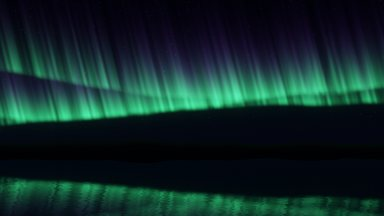
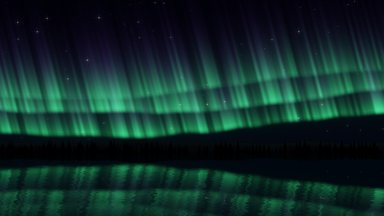
Aurora: fir trees along the shore before the mountains, in clusters with clearings, each its own height, in tiers narrowing to the tip, nearly black and mirrored in the lake, broken by its waves; the far mountains a little hazier so the near trees stand out from them. The brightest stars' glare flas

diff --git a/apps/desktop/renderer/app/viz/aurora.js b/apps/desktop/renderer/app/viz/aurora.js
@@ -8,11 +8,12 @@
 // curtain glows brighter, and where it is louder than it just was its lower
 // edge lifts a little (quieter: dips), easing back as it settles. The
 // music's intensity sets how restless they are, and the kicks make them
-// flare. The lake mirrors it all, broken by small waves.
+// flare. Fir trees stand along the shore before the mountains, and the lake
+// mirrors it all, broken by small waves.
 //
 // Its cogwheel: the colours (green, the rarer red and violet, rainbow), how
 // restless, the lake, the stars (faint and bright ones, each twinkling in its
-// own time, the brightest with a glare).
+// own time, the brightest with a glare flashing a little with the bass).
 //
 // WebGL (viz/gl.js): one pass over the screen; below the horizon each pixel
 // works out the sky again where it would be mirrored.
@@ -38,7 +39,7 @@
     in vec2 uv;
     uniform sampler2D bands;
     uniform vec2 res;
-    uniform float time, drift, flare, lake, stars, rainbow, lift;
+    uniform float time, drift, flare, lake, stars, rainbow, lift, boom;
     uniform vec3 low, high;
     out vec4 o;
 
@@ -88,8 +89,9 @@
           float glow = exp(-dot(d, d) / (r * r));
           glow += 0.1 * m * exp(-length(d) / (2.0 + 4.0 * m));
           if (m > 0.5) {
-            float reach = 3.0 + 8.0 * m;
-            glow += 0.25 * m * (exp(-abs(d.y) / 0.45 - abs(d.x) / reach) + exp(-abs(d.x) / 0.45 - abs(d.y) / reach));
+            // Flashing a little with the bass.
+            float reach = (3.0 + 8.0 * m) * (1.0 + 0.3 * boom);
+            glow += 0.25 * m * (1.0 + 0.8 * boom) * (exp(-abs(d.y) / 0.45 - abs(d.x) / reach) + exp(-abs(d.x) / 0.45 - abs(d.y) / reach));
           }
           vec3 tint = mix(vec3(0.75, 0.85, 1.0), vec3(1.0, 0.88, 0.72), hash12(g + 6.6));
           sum += tint * (0.3 + 1.0 * m) * twinkle(g, 0.45) * glow;
@@ -133,29 +135,61 @@
       return col;
     }
 
+    // The fir trees along the shore, x across (screen heights) and y above
+    // the shore: how much of this point they cover. In clusters with
+    // clearings between, each its own height, in tiers narrowing to the tip.
+    float trees(float x, float y) {
+      if (y < 0.0 || y > 0.07) return 0.0;
+      const float W = 0.011;
+      float cell = floor(x / W);
+      float edge = 1.2 / res.y;
+      float cover = 0.0;
+      for (int k = -2; k <= 2; k++) {
+        float c = cell + float(k);
+        float forest = smoothstep(0.35, 0.6, vnoise(vec2(c * 0.07, 7.0)));
+        if (hash12(vec2(c, 3.3)) > forest * 0.95) continue;
+        float h = (0.016 + 0.034 * hash12(vec2(c, 5.1))) * (0.65 + 0.45 * forest);
+        float t = y / h;
+        if (t > 1.0) continue;
+        float cx = (c + 0.5 + 0.7 * (hash12(vec2(c, 8.2)) - 0.5)) * W;
+        float tiers = 4.0 + floor(3.0 * hash12(vec2(c, 9.9)));
+        float wide = h * 0.26 * (1.0 - t) * (0.62 + 0.38 * fract((1.0 - t) * tiers));
+        if (t < 0.1) wide = max(wide, h * 0.025);   // the trunk
+        cover = max(cover, smoothstep(-edge, edge, wide - abs(x - cx)) * smoothstep(-edge, edge, h - y));
+      }
+      return cover;
+    }
+
     void main() {
       float aspect = res.x / res.y;
       vec2 p = uv;
       vec3 col;
+      float wave = 0.0;
       if (p.y >= HORIZON || lake < 0.5) {
         col = sky(p, aspect);
       } else {
         // The lake: the sky mirrored, broken by small waves, darker.
         float depth = (HORIZON - p.y) / HORIZON;
-        float wave = (vnoise(vec2(p.x * aspect * 40.0, p.y * 260.0 - time * 0.8)) - 0.5) * 0.012 * (0.3 + depth);
+        wave = (vnoise(vec2(p.x * aspect * 40.0, p.y * 260.0 - time * 0.8)) - 0.5) * 0.012 * (0.3 + depth);
         vec2 m = vec2(p.x + wave, 2.0 * HORIZON - p.y + wave * 0.5);
         col = sky(m, aspect) * (0.55 - 0.25 * depth);
         col += vec3(0.0, 0.01, 0.02);
       }
-      // The mountains, black against the sky, a little of the aurora's light on their snow.
+      // The mountains, dark against the sky (a little hazy, being far), a
+      // little of the aurora's light on their snow.
       float top = ridge(p.x * aspect);
       float mirrored = 2.0 * HORIZON - ridge(p.x * aspect);
       if ((p.y < top && p.y > HORIZON) || (lake < 0.5 && p.y < top)) {
         float snow = smoothstep(top - 0.03, top, p.y) * 0.5;
-        col = vec3(0.006, 0.008, 0.014) + low * snow * 0.04;
+        col = vec3(0.013, 0.017, 0.028) + low * snow * 0.04;
       } else if (lake > 0.5 && p.y < HORIZON && p.y > mirrored) {
-        col = vec3(0.003, 0.005, 0.01);
+        col = vec3(0.006, 0.009, 0.016);
       }
+      // The trees in front, nearly black, and mirrored in the lake, broken
+      // by its waves.
+      const vec3 TREE = vec3(0.0015, 0.002, 0.003);
+      if (p.y >= HORIZON) col = mix(col, TREE, trees(p.x * aspect, p.y - HORIZON));
+      else if (lake > 0.5) col = mix(col, TREE, trees((p.x + wave) * aspect, HORIZON - p.y + wave * 0.5));
       col = 1.0 - exp(-col * 1.4);
       col += (hash12(gl_FragCoord.xy + time) - 0.5) / 255.0;
       o = vec4(col, 1.0);
@@ -214,6 +248,7 @@
       gl.uniform1f(u.drift, this.drift);
       gl.uniform1f(u.flare, a.kick);
       gl.uniform1f(u.lift, LIFT);
+      gl.uniform1f(u.boom, a.kick);
       gl.uniform1f(u.lake, set('auLake') ? 1 : 0);
       gl.uniform1f(u.stars, set('auStars') ? 1 : 0);
       gl.uniform1f(u.rainbow, set('auColors') === 'rainbow' ? 1 : 0);
